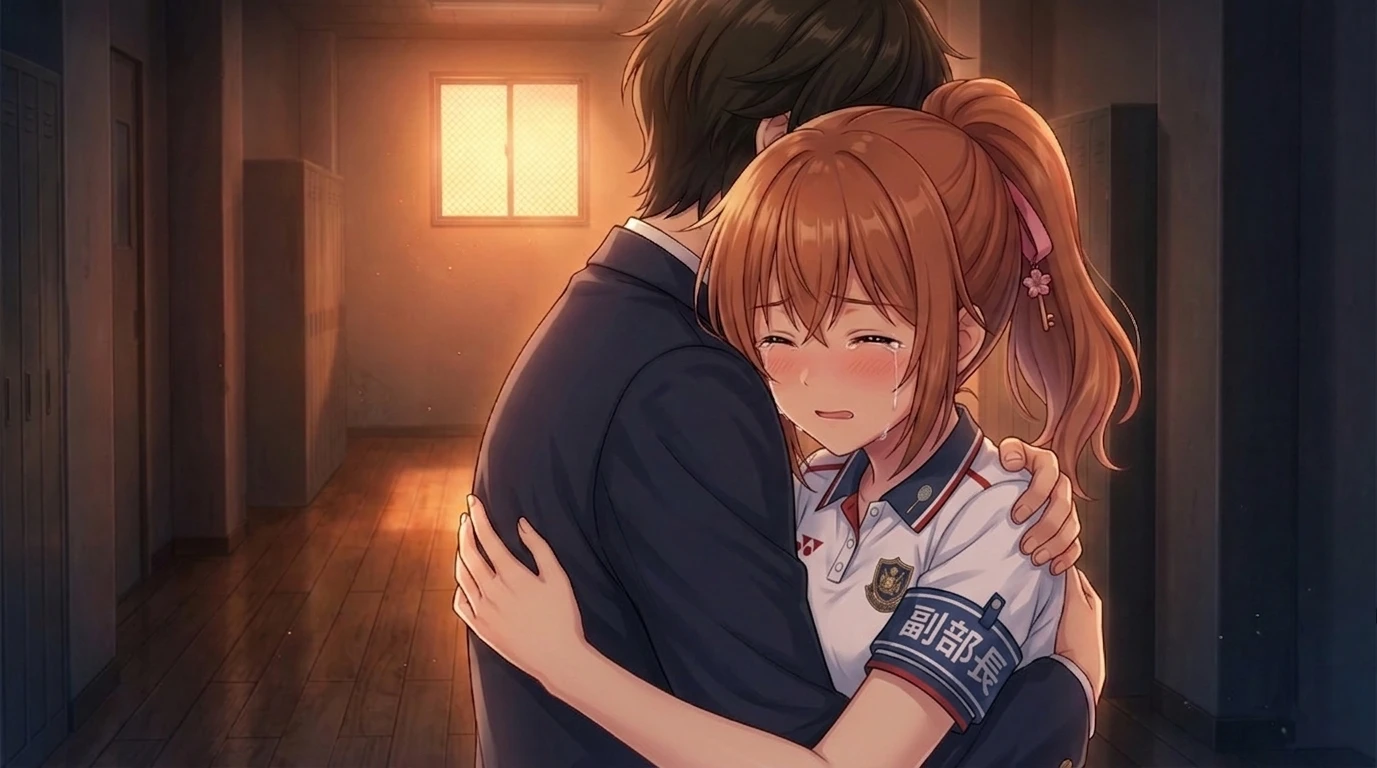
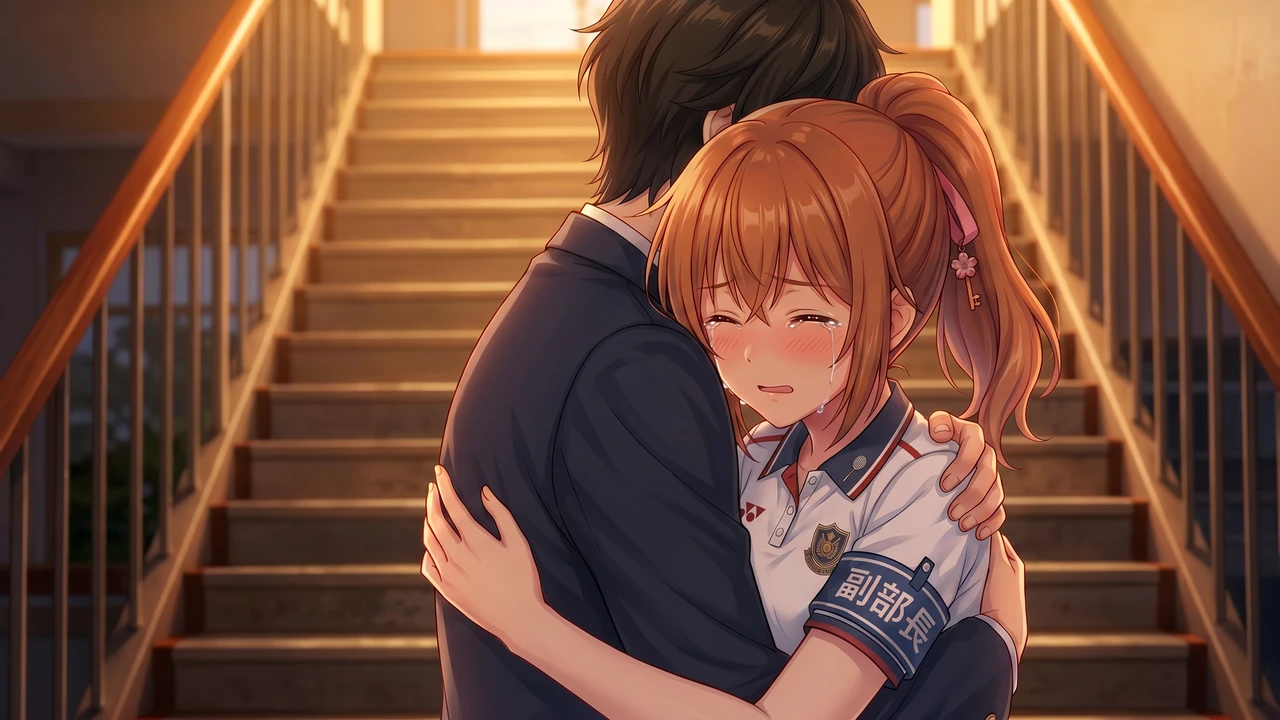
Update sakura embrace still

diff --git a/assets-src/デバッグ報告４.md b/assets-src/デバッグ報告４.md
@@ -44,6 +44,7 @@
     - → 変わらず警告出るねー…
     - → ✅ 再対応。HTML要素がないのに `Cormorant Garamond` を Google Fonts でロードしていた（使われない font-face が警告を出していた可能性）。Google Fonts URL・style.css の `#title-sub` ルートを削除。加えて `document.fonts.ready` を `document.fonts.load('Shippori Mincho B1')` に変更し、必要フォントを明示的に待つよう修正。
       → 相変わらずゲーム読み込み時に大量の警告が出ている。ゲームプレイに問題があるわけではないが。
+      - → 再確認時に警告を確認できなかったため、いったん保留。
 
 - [x] **重要：ページ移動を防ぐロックが欲しい。**
   - → ✅ 対応済み。ゲームプレイ中（`_gameActive=true`）は `beforeunload` でブラウザの離脱確認ダイアログを表示。タイトル画面では無効。
@@ -173,7 +174,7 @@
     - → 雨の日の階段背景が必要。
       - → ✅ 今回対応済み。`bad_end_start` 側は `@scene staircase_rainy` 使用済み。素材としては `staircase_rainy.webp` が存在していたが、右下に生成マークのようなものが残っていたため、補正版 `assets/images/bg/staircase_rainy.png` を追加し、PNGを優先表示するよう設定。
 
-- [△] **sakura_ch10_afuter_practice**
+- [x] **sakura_ch10_afuter_practice**
   - デバッグ報告2より引き続き
   - 部活後のシーン
     > 後輩たちが帰って、体育館の外に出た。 <br>
@@ -214,6 +215,7 @@
     - → ✅ 対応済み（確認）。`sakura_embrace` スチルも追記メモに記載の通りリテイク素材に差し替え済み。scene=staircase_evening との整合が取れるよう変更。
       - → 描写シーンからすると廊下のようだがスチル絵だと廊下だとわからない。廊下の構造が背景画像で使われるものと大きく違ってる。
         - → 今回はシナリオ側の導線のみ対応。`sakura_embrace` の背景構造の違和感は画像リテイクが必要なため未対応として残す。
+        - → ✅ 今回対応済み。`assets-src/stills_re/sakura_embrace.png` のリテイク素材を `assets/images/stills/sakura_embrace.png` / `.webp` に反映。`CLAUDE.md` の手順通り、1280×720にリサイズし、WebPはquality=90で生成。
 
 
 - [△] **kotoha_ch9_start**
